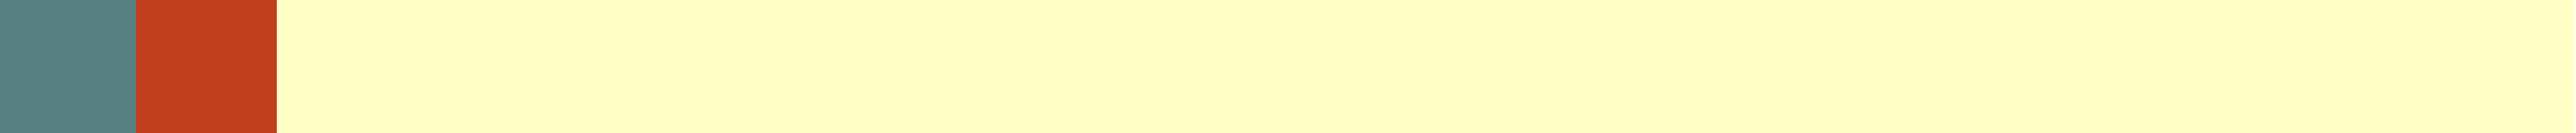
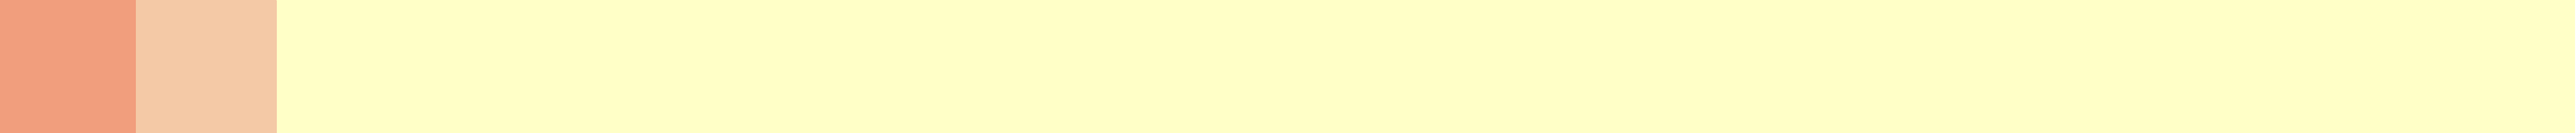
update

Changed region(s): [[0.0, 0.0, 0.1249, 1.0]]

diff --git a/seminars/PDEsconfUOA/style.css b/seminars/PDEsconfUOA/style.css
@@ -11,7 +11,7 @@
 body {
 	margin: 0;
 	padding: 0;
-	background: #FFFFFF url(images/back.png) repeat-y;
+	background: #FFFFFF url(images/back2.png) repeat-y;
     background-size: 100%;
 	text-align: justify;
 	font-family: "GFSNeoh";
